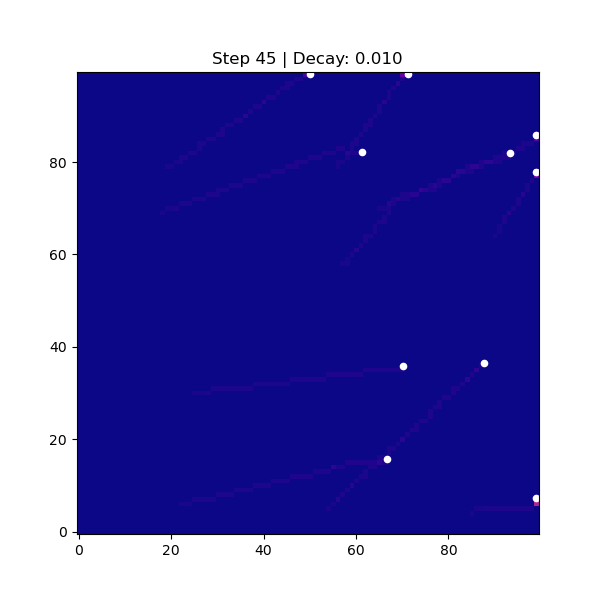
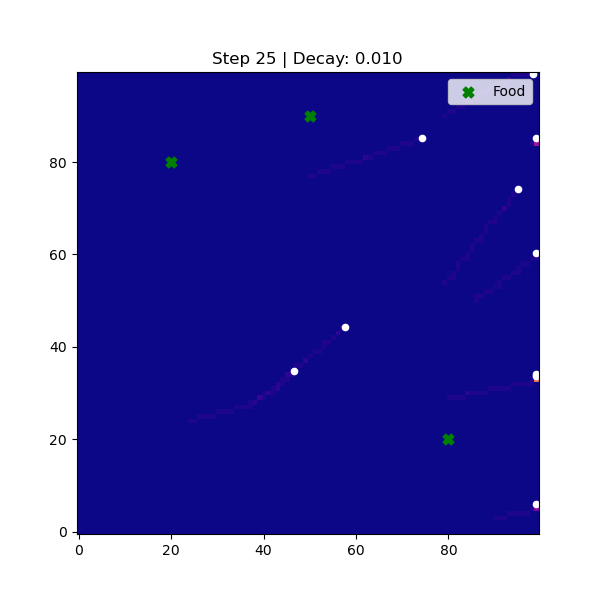
Add food source visualization and pheromone deposition logic in swarm formation simulation

diff --git a/A2/Q2/swarm_formation.py b/A2/Q2/swarm_formation.py
@@ -9,6 +9,8 @@ STEPS = 1000
 PHEROMONE_DECAY = 0.01
 PERTURBATION_STEP = 500  # halfway point
 DEPOSIT_AMOUNT = 3.0
+FOOD_SOURCES = np.array([[20, 80], [80, 20], [50, 90]])  # (x, y)
+FOOD_RADIUS = 2.0
 
 # Initialize
 pheromone = np.zeros((GRID_SIZE, GRID_SIZE))
@@ -21,6 +23,9 @@ im = ax.imshow(pheromone, cmap='plasma', origin='lower', vmin=0, vmax=100)
 scat = ax.scatter(robots[:,0], robots[:,1], c='white', s=20)
 ax.set_title("Swarm Trail Formation (Live)")
 
+ax.scatter(FOOD_SOURCES[:,0], FOOD_SOURCES[:,1], c='green', s=60, marker='X', label='Food')
+ax.legend(loc='upper right')
+
 def sense_pheromone(x, y, angle, dist=2):
     """Sense pheromone intensity on left, center, right."""
     def sample(dx, dy):
@@ -31,6 +36,9 @@ def sense_pheromone(x, y, angle, dist=2):
     center = sample(np.cos(angle)*dist, np.sin(angle)*dist)
     right = sample(np.cos(angle + np.pi/4)*dist, np.sin(angle + np.pi/4)*dist)
     return left, center, right
+
+def near_food(x, y):
+    return np.any(np.linalg.norm(FOOD_SOURCES - np.array([x, y]), axis=1) < FOOD_RADIUS)
 
 def move_robot(r):
     x, y, angle = r
@@ -43,7 +51,12 @@ def move_robot(r):
     x += np.cos(angle)
     y += np.sin(angle)
     x, y = np.clip(x, 0, GRID_SIZE - 1), np.clip(y, 0, GRID_SIZE - 1)
-    pheromone[int(y), int(x)] += DEPOSIT_AMOUNT  # deposit pheromone
+    
+    # If near food, deposit more pheromone
+    if near_food(x, y):
+        pheromone[int(y), int(x)] += DEPOSIT_AMOUNT * 4
+    else:
+        pheromone[int(y), int(x)] += DEPOSIT_AMOUNT
     return np.array([x, y, angle])
 
 def decay_pheromone(rate):
